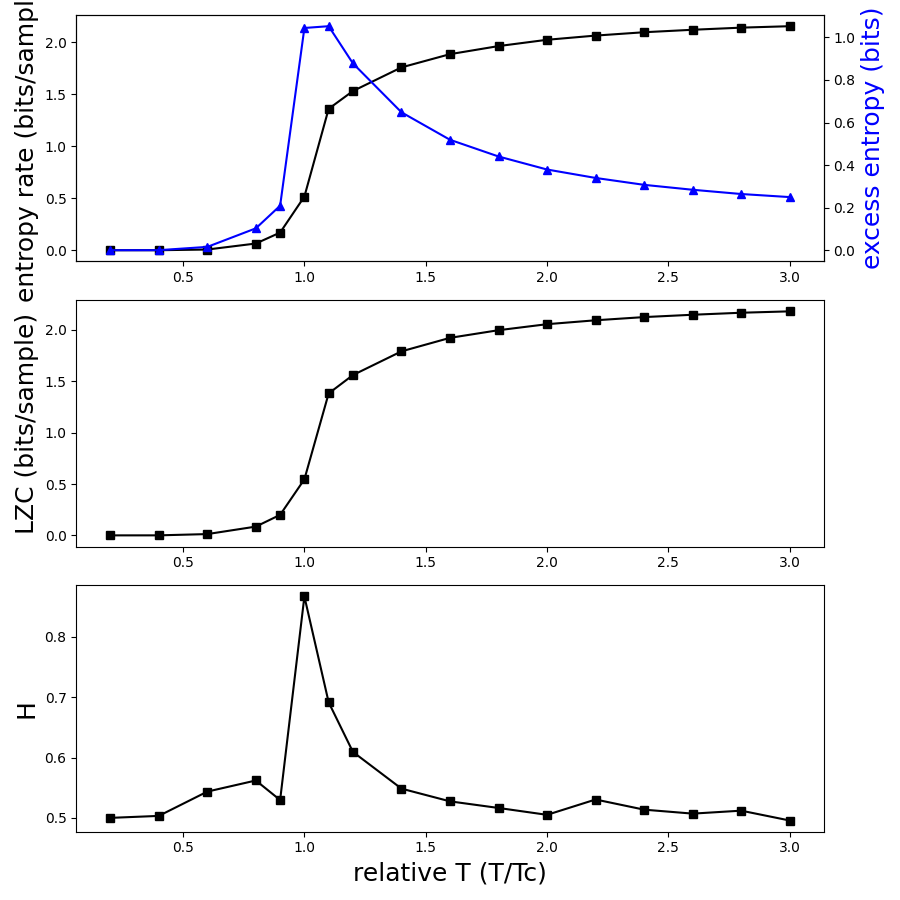
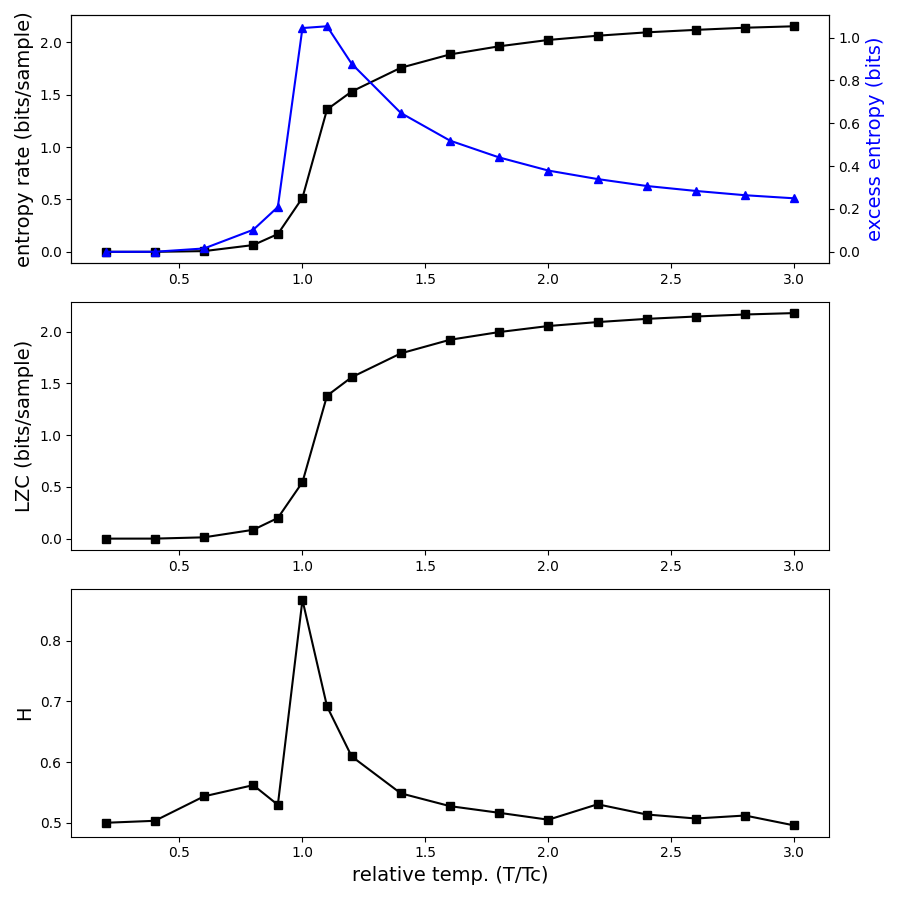
changed fontsize

diff --git a/potts_complexity.py b/potts_complexity.py
@@ -48,21 +48,22 @@ def compute():
     print("\ndone.")
 
     # Figure
+    fsize = 14
     fig, ax = plt.subplots(3, 1, figsize=(9,9))
     # entropy rate
     ax[0].plot(rtemps, er_arr.mean(axis=1), '-sk')
-    ax[0].set_ylabel(f"entropy rate (bits/sample)", fontsize=18)
+    ax[0].set_ylabel(f"entropy rate (bits/sample)", fontsize=fsize)
     # excess entropy
     ax0c = ax[0].twinx()
-    ax0c.set_ylabel(f"excess entropy (bits)", color="b", fontsize=18)
+    ax0c.set_ylabel(f"excess entropy (bits)", color="b", fontsize=fsize)
     ax0c.plot(rtemps, ee_arr.mean(axis=1), '-^b')
     # LZC
     ax[1].plot(rtemps, lzc_arr.mean(axis=1), '-sk')
-    ax[1].set_ylabel(f"LZC (bits/sample)", fontsize=18)
+    ax[1].set_ylabel(f"LZC (bits/sample)", fontsize=fsize)
     # Hurst exponent
     ax[2].plot(rtemps, h_arr.mean(axis=1), '-sk')
-    ax[2].set_ylabel(f"H", fontsize=18)
-    ax[2].set_xlabel(f"relative T (T/Tc)", fontsize=18)
+    ax[2].set_ylabel(f"H", fontsize=fsize)
+    ax[2].set_xlabel(f"relative temp. (T/Tc)", fontsize=fsize)
     plt.tight_layout()
     plt.show()
 
